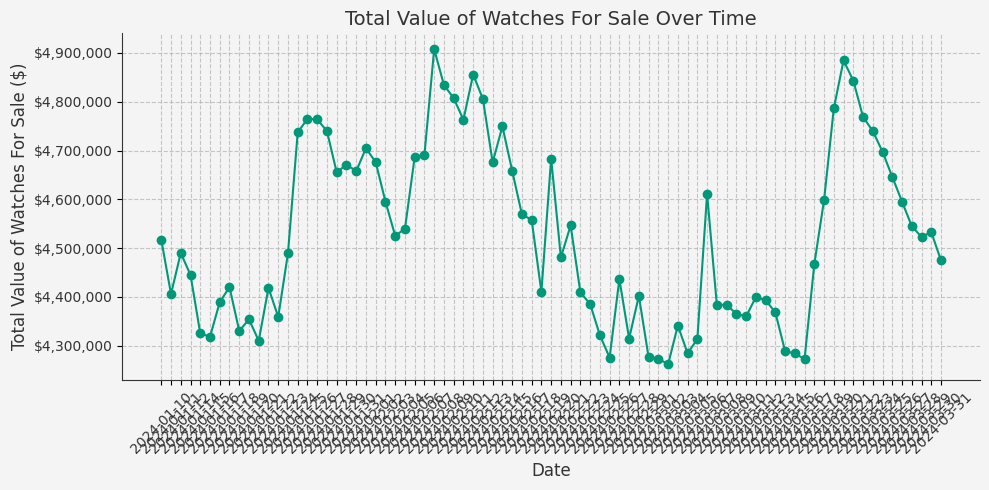
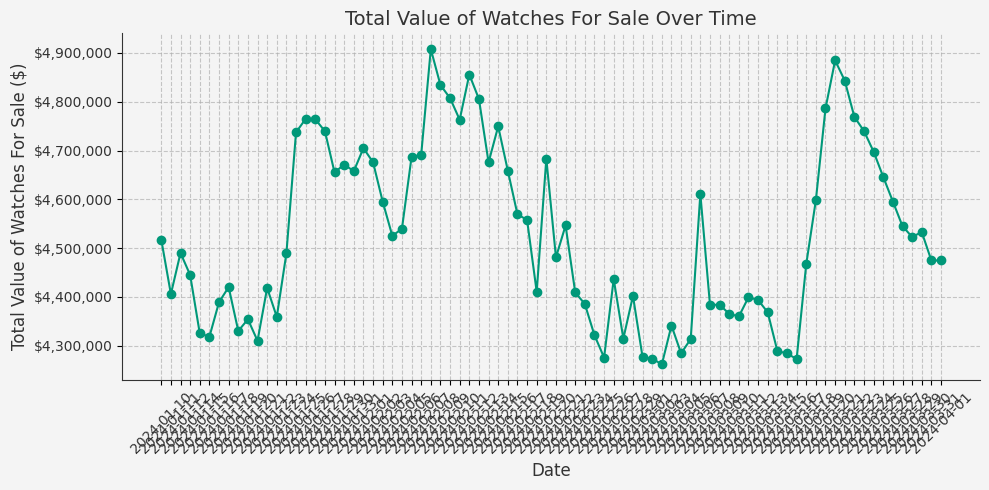
Update docs, portfolio image and portfolio statistics

Changed region(s): [[0.1517, 0.0612, 0.9707, 0.949]]

diff --git a/docs/index.html b/docs/index.html
@@ -54,10 +54,10 @@
     </style>
 </head>
 <body>
-    <h1>Watch Data Report - 2024-03-31</h1>
+    <h1>Watch Data Report - 2024-04-01</h1>
     <div class="stats">
         <h3>Summary Statistics</h3>
-        <p>Value of sold Watches: $52,950.00</p>
+        <p>Value of sold Watches: $0.00</p>
         <p>Value of listed Watches: $0.00</p>
         <p>Value of unsold Watches: $4,474,800.00</p>
     </div>
@@ -72,48 +72,6 @@
     </tr>
   </thead>
   <tbody>
-    <tr>
-      <td>2001 18K Wg Rolex Day-Date 118239 Copper Jubilee Diamond Dial With Box And Papers</td>
-      <td>$26,850.00</td>
-      <td>$26,650.00</td>
-      <td><a href="https://tropicalwatch.com/watches/rhnu" target="_blank">Link</a></td>
-    </tr>
-    <tr>
-      <td>1968 Rolex Gmt-Master 1675 Mk 1 Dial</td>
-      <td>$14,850.00</td>
-      <td>$13,850.00</td>
-      <td><a href="https://tropicalwatch.com/watches/f6xi" target="_blank">Link</a></td>
-    </tr>
-    <tr>
-      <td>2003 Rolex Green Submariner 16610Lv With Lime "Flat 4" Bezel</td>
-      <td>$15,950.00</td>
-      <td>$15,350.00</td>
-      <td><a href="https://tropicalwatch.com/watches/kslh" target="_blank">Link</a></td>
-    </tr>
-    <tr>
-      <td>2023 Rolex 18K Wg Daytona 126509 Black Dial With Box And Papers</td>
-      <td>$45,950.00</td>
-      <td>$44,950.00</td>
-      <td><a href="https://tropicalwatch.com/watches/7qvk" target="_blank">Link</a></td>
-    </tr>
-    <tr>
-      <td>Patek Phillipe 18K Yg Ellipse 3548 Tropical Dial</td>
-      <td>$9,350.00</td>
-      <td>$8,850.00</td>
-      <td><a href="https://tropicalwatch.com/watches/1dnf" target="_blank">Link</a></td>
-    </tr>
-    <tr>
-      <td>1990 Rolex 18K Yg Submariner 16618 Blue Dial</td>
-      <td>$29,550.00</td>
-      <td>$28,550.00</td>
-      <td><a href="https://tropicalwatch.com/watches/lgxd" target="_blank">Link</a></td>
-    </tr>
-    <tr>
-      <td>1994 Rolex 18K Yg Day-Date 18238 Champagne Dial</td>
-      <td>$18,950.00</td>
-      <td>$17,950.00</td>
-      <td><a href="https://tropicalwatch.com/watches/o4ku" target="_blank">Link</a></td>
-    </tr>
   </tbody>
 </table>
 
@@ -140,21 +98,6 @@
     </tr>
   </thead>
   <tbody>
-    <tr>
-      <td>1978 Rolex Gmt-Master 1675 Black Bird</td>
-      <td>Sold</td>
-      <td><a href="https://tropicalwatch.com/watches/dfey" target="_blank">Link</a></td>
-    </tr>
-    <tr>
-      <td>1979 Rolex Datejust 16030 Silver Dial</td>
-      <td>Sold</td>
-      <td><a href="https://tropicalwatch.com/watches/ef5a" target="_blank">Link</a></td>
-    </tr>
-    <tr>
-      <td>1994 Rolex 18K Yg Zenith Daytona 16528 Inverted "6" Champagne Dial</td>
-      <td>Sold</td>
-      <td><a href="https://tropicalwatch.com/watches/om3d" target="_blank">Link</a></td>
-    </tr>
   </tbody>
 </table>
 
